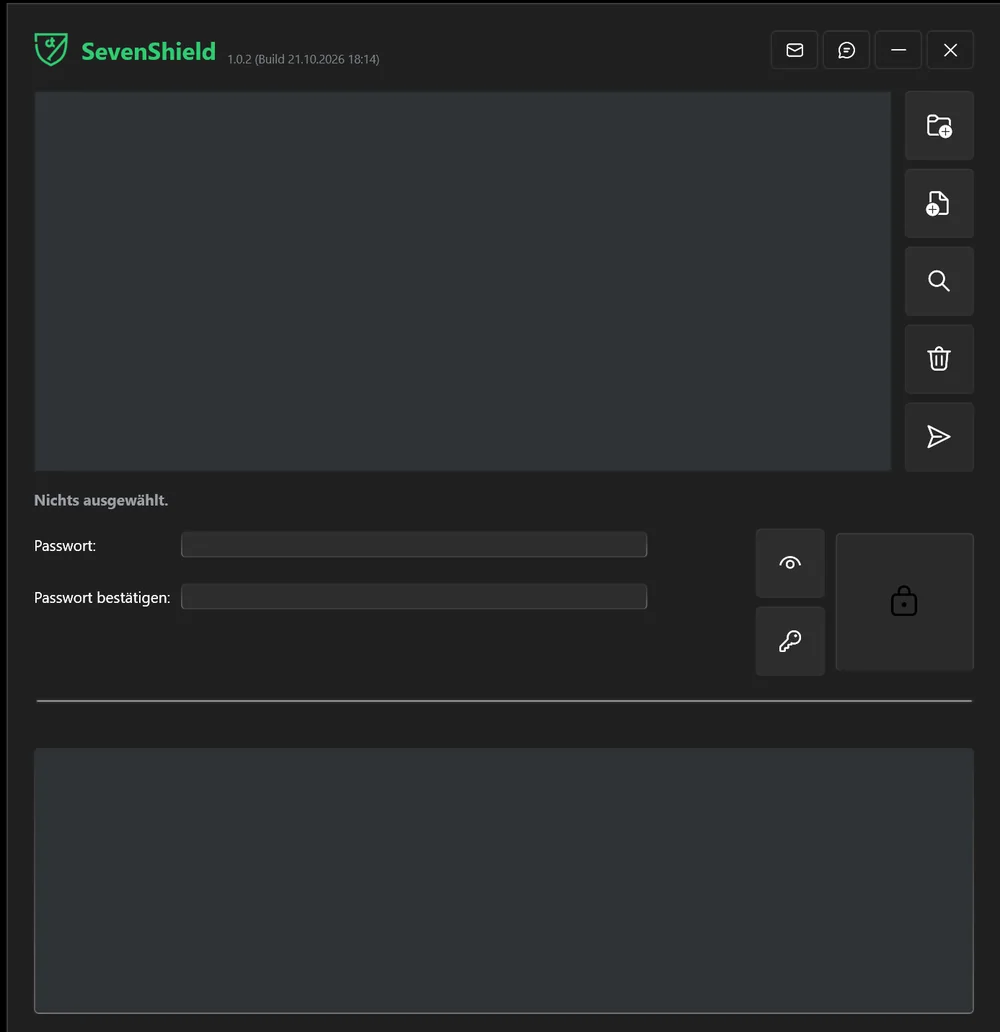
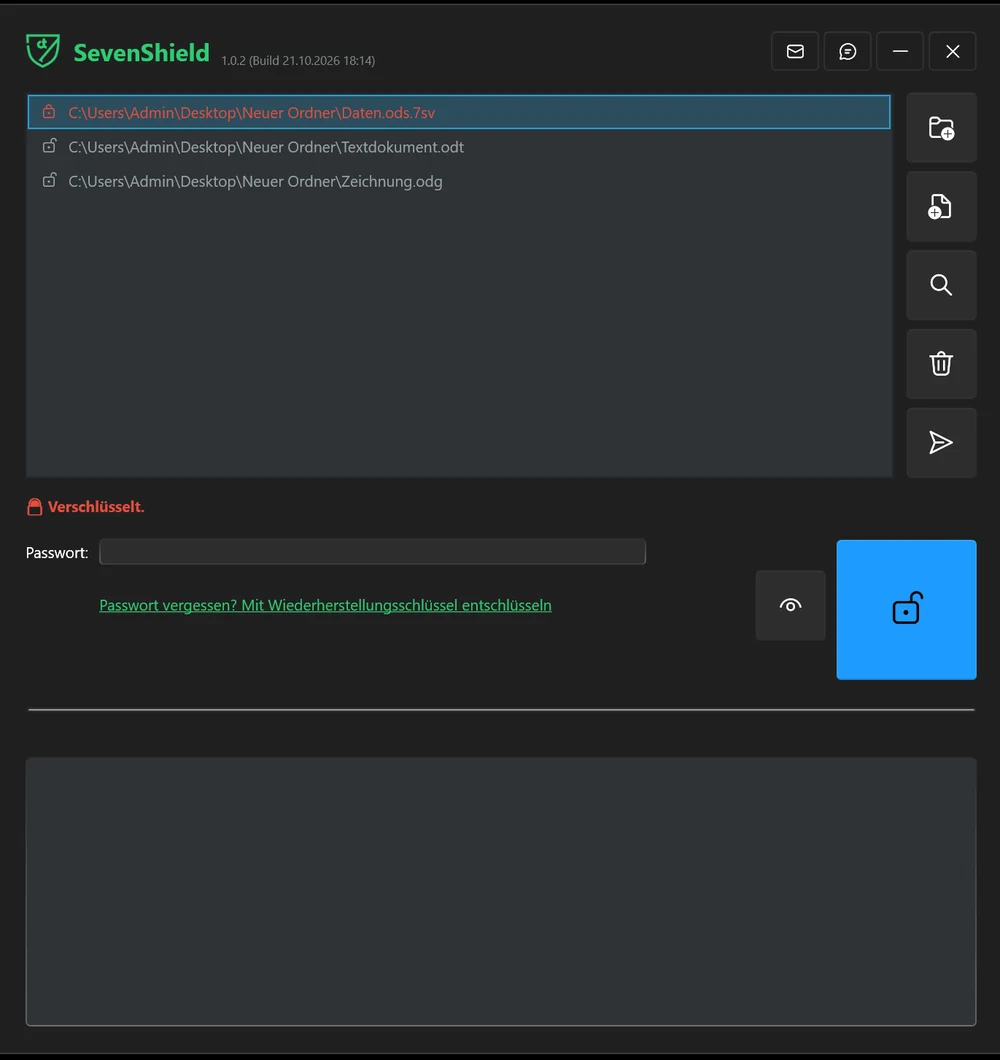
Landingpage Update 20.11.2026 18:52:21,85

diff --git a/fr/index.html b/fr/index.html
@@ -1255,7 +1255,7 @@
         <p>Le destinataire n’a rien à installer. Ouvrir le fichier dans le navigateur, saisir le mot de passe, c’est tout : <a href="https://sevenshield.de/oeffnen/?lang=fr">sevenshield.de/oeffnen</a>. Tout se passe sur l’appareil, rien n’est envoyé. La page existe aussi en fichier hors ligne avec somme de contrôle.</p>
       </div>
         </div>
-        <div class="shot-frame"><img src="/sevenerase/img/shield-main.webp" alt="Fenêtre principale de SevenShield avec la liste de fichiers et les champs de mot de passe" width="1000" height="1043" loading="lazy"></div>
+        <div class="shot-frame"><img src="/sevenerase/img/shield-main.webp?v=2" alt="Fenêtre principale de SevenShield avec un fichier chiffré, deux fichiers non chiffrés et le champ de mot de passe" width="1000" height="1060" loading="lazy"></div>
       </div>
     </div>
   </section>
@@ -1267,7 +1267,7 @@
         <h2>Chiffrer le texte des e-mails et les pièces jointes</h2>
         <p>Gardez les informations confidentielles hors du corps de l'e-mail. Avec SevenShield, vous rédigez le message dans sa propre fenêtre, ajoutez des fichiers si besoin et envoyez le tout sous la forme d'un seul fichier chiffré. Le destinataire l'ouvre gratuitement.</p>
       </div>
-        <div class="shot-frame"><img src="/sevenerase/img/shield-message.webp" alt="Fenêtre « Chiffrer un message » de SevenShield avec champ de texte et pièces jointes" width="1000" height="1040" loading="lazy"></div>
+        <div class="shot-frame"><img src="/sevenerase/img/shield-message.webp?v=2" alt="Fenêtre « Envoyer le message » de SevenShield avec le fichier chiffré et un mot de passe séparé" width="924" height="1050" loading="lazy"></div>
       </div>
       <div class="audience-grid">
         <div class="audience-cell">

diff --git a/it/index.html b/it/index.html
@@ -1255,7 +1255,7 @@
         <p>Il destinatario non deve installare nulla. Apri il file nel browser, inserisci la password, fatto: <a href="https://sevenshield.de/oeffnen/?lang=it">sevenshield.de/oeffnen</a>. Tutto avviene sul dispositivo, nulla viene caricato. La pagina è disponibile anche come file offline con checksum.</p>
       </div>
         </div>
-        <div class="shot-frame"><img src="/sevenerase/img/shield-main.webp" alt="Finestra principale di SevenShield con elenco dei file e campi password" width="1000" height="1043" loading="lazy"></div>
+        <div class="shot-frame"><img src="/sevenerase/img/shield-main.webp?v=2" alt="Finestra principale di SevenShield con un file crittografato, due file non crittografati e il campo password" width="1000" height="1060" loading="lazy"></div>
       </div>
     </div>
   </section>
@@ -1267,7 +1267,7 @@
         <h2>Crittografa il testo delle email e gli allegati</h2>
         <p>Tieni le informazioni riservate fuori dal corpo dell'email. Con SevenShield scrivi il messaggio in una finestra apposita, aggiungi file se serve e invii tutto come un unico file crittografato. Il destinatario lo apre gratis.</p>
       </div>
-        <div class="shot-frame"><img src="/sevenerase/img/shield-message.webp" alt="Finestra “Crittografa messaggio” di SevenShield con campo di testo e allegati" width="1000" height="1040" loading="lazy"></div>
+        <div class="shot-frame"><img src="/sevenerase/img/shield-message.webp?v=2" alt="Finestra “Invia messaggio” di SevenShield con il file crittografato e una password separata" width="924" height="1050" loading="lazy"></div>
       </div>
       <div class="audience-grid">
         <div class="audience-cell">

diff --git a/index.html b/index.html
@@ -1256,7 +1256,7 @@
         <p>Der Empfänger braucht keine Installation. Die Datei im Browser öffnen, Passwort eingeben, fertig: <a href="https://sevenshield.de/oeffnen/?lang=de">sevenshield.de/oeffnen</a>. Alles läuft auf dem Gerät, nichts wird hochgeladen. Auf Wunsch gibt es die Seite auch als Offline-Datei mit Prüfsumme.</p>
       </div>
         </div>
-        <div class="shot-frame"><img src="/sevenerase/img/shield-main.webp" alt="SevenShield Hauptfenster mit Dateiliste und Passwortfeldern" width="1000" height="1043" loading="lazy"></div>
+        <div class="shot-frame"><img src="/sevenerase/img/shield-main.webp?v=2" alt="SevenShield Hauptfenster mit einer verschlüsselten und zwei unverschlüsselten Dateien und Passwortfeld" width="1000" height="1060" loading="lazy"></div>
       </div>
     </div>
   </section>
@@ -1268,7 +1268,7 @@
         <h2>E-Mail-Texte und Anhänge verschlüsseln</h2>
         <p>Vertrauliches gehört nicht in den E-Mail-Text. Mit SevenShield schreiben Sie die Nachricht in einem eigenen Fenster, hängen bei Bedarf Dateien an und verschicken beides als eine verschlüsselte Datei. Der Empfänger öffnet sie kostenlos.</p>
       </div>
-        <div class="shot-frame"><img src="/sevenerase/img/shield-message.webp" alt="SevenShield, Fenster „Nachricht verschlüsseln“ mit Textfeld und Anhängen" width="1000" height="1040" loading="lazy"></div>
+        <div class="shot-frame"><img src="/sevenerase/img/shield-message.webp?v=2" alt="SevenShield, Fenster „Nachricht versenden“ mit verschlüsselter Datei und separatem Passwort" width="924" height="1050" loading="lazy"></div>
       </div>
       <div class="audience-grid">
         <div class="audience-cell">

diff --git a/en/index.html b/en/index.html
@@ -1255,7 +1255,7 @@
         <p>The recipient needs no installation. Open the file in the browser, enter the password, done: <a href="https://sevenshield.de/oeffnen/?lang=en">sevenshield.de/oeffnen</a>. Everything runs on the device, nothing is uploaded. The page is also available as an offline file with a checksum.</p>
       </div>
         </div>
-        <div class="shot-frame"><img src="/sevenerase/img/shield-main.webp" alt="SevenShield main window with file list and password fields" width="1000" height="1043" loading="lazy"></div>
+        <div class="shot-frame"><img src="/sevenerase/img/shield-main.webp?v=2" alt="SevenShield main window with one encrypted and two unencrypted files and the password field" width="1000" height="1060" loading="lazy"></div>
       </div>
     </div>
   </section>
@@ -1267,7 +1267,7 @@
         <h2>Encrypt email text and attachments</h2>
         <p>Keep confidential details out of the email body. With SevenShield you write the message in its own window, add files if needed, and send both as one encrypted file. The recipient opens it for free.</p>
       </div>
-        <div class="shot-frame"><img src="/sevenerase/img/shield-message.webp" alt="SevenShield “Encrypt message” window with text field and attachments" width="1000" height="1040" loading="lazy"></div>
+        <div class="shot-frame"><img src="/sevenerase/img/shield-message.webp?v=2" alt="SevenShield “Send message” window with the encrypted file and a separate password" width="924" height="1050" loading="lazy"></div>
       </div>
       <div class="audience-grid">
         <div class="audience-cell">
